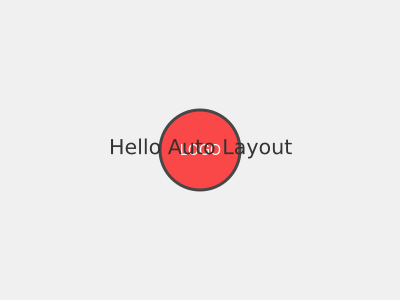
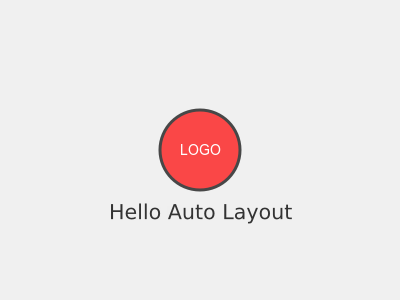
feat(布局引擎): 实现图片元素自动尺寸功能并添加测试用例
添加图片元素的自动尺寸支持，当未指定宽高约束时使用原始图片尺寸
更新文档说明自动尺寸功能，包括文本和图片元素的内在尺寸处理
添加三个测试用例验证不同尺寸约束场景下的图片渲染行为

Changed region(s): [[0.27, 0.66, 0.75, 0.75], [0.27, 0.45, 0.72, 0.54]]

diff --git a/auto_layout_render_test/src/solver.rs b/auto_layout_render_test/src/solver.rs
@@ -7,6 +7,7 @@ use cassowary::{
 use std::collections::HashMap;
 
 use rusttype::{Font, Scale, point};
+use image::DynamicImage;
 
 #[derive(Debug)]
 pub enum SolverError {
@@ -75,6 +76,7 @@ pub struct LayoutSolver {
     variables: HashMap<ElementId, ElementVariables>,
     canvas_vars: ElementVariables,
     fonts: HashMap<String, Font<'static>>,
+    images: HashMap<String, DynamicImage>,
 }
 
 impl Default for LayoutSolver {
@@ -90,6 +92,7 @@ impl LayoutSolver {
             variables: HashMap::new(),
             canvas_vars: ElementVariables::new(),
             fonts: HashMap::new(),
+            images: HashMap::new(),
         }
     }
 
@@ -106,6 +109,20 @@ impl LayoutSolver {
         })?;
 
         self.fonts.insert(font_family.to_string(), font);
+        Ok(())
+    }
+
+    /// 加载图片
+    pub fn load_image(&mut self, image_path: &str) -> Result<(), SolverError> {
+        if self.images.contains_key(image_path) {
+            return Ok(());
+        }
+
+        let image = image::open(image_path).map_err(|e| {
+            SolverError::ConstraintError(format!("Failed to load image {}: {}", image_path, e))
+        })?;
+
+        self.images.insert(image_path.to_string(), image);
         Ok(())
     }
 
@@ -153,6 +170,48 @@ impl LayoutSolver {
                         let text_height = properties.font_size * 1.2; // 添加一些行间距
                         self.solver
                             .add_constraint(vars.height | EQ(MEDIUM) | (text_height as f64))?;
+                    }
+                }
+            }
+        } else if let Element::Image {
+                source,
+                constraints,
+                ..
+            } = element {
+            // 检查是否已有显式的宽高约束
+            let has_width_constraint = constraints.iter().any(|c| {
+                matches!(
+                    c.constraint_type,
+                    ConstraintType::Width { value: Some(_), .. }
+                )
+            });
+            let has_height_constraint = constraints.iter().any(|c| {
+                matches!(
+                    c.constraint_type,
+                    ConstraintType::Height { value: Some(_), .. }
+                )
+            });
+
+            if !has_width_constraint || !has_height_constraint {
+                // 加载图片
+                self.load_image(source)?;
+
+                if let Some(image) = self.images.get(source) {
+                    let vars = self
+                        .variables
+                        .get(element.id())
+                        .ok_or_else(|| SolverError::ElementNotFound(element.id().clone()))?;
+
+                    let (width, height) = (image.width() as f64, image.height() as f64);
+
+                    if !has_width_constraint {
+                        self.solver
+                            .add_constraint(vars.width | EQ(MEDIUM) | width)?;
+                    }
+
+                    if !has_height_constraint {
+                        self.solver
+                            .add_constraint(vars.height | EQ(MEDIUM) | height)?;
                     }
                 }
             }

diff --git a/auto_layout_render_test/src/main.rs b/auto_layout_render_test/src/main.rs
@@ -18,13 +18,24 @@ fn main() -> Result<(), Box<dyn std::error::Error>> {
 
 /// 测试简单布局
 fn test_simple_layout() -> Result<(), Box<dyn std::error::Error>> {
-    println!("🧪 测试简单布局...");
-
     let mut engine = AutoLayoutEngine::new();
-    let image = engine.render_from_json_file("examples/simple.json")?;
 
+    println!("🧪 测试简单布局...");
+    let image = engine.render_from_json_file("examples/simple.json")?;
     AutoLayoutEngine::save_image(&image, "output/simple.png")?;
     println!("✅ 简单布局渲染完成 -> output/simple.png\n");
+
+    // 测试图片自动尺寸功能
+    println!("🧪 测试图片自动尺寸...");
+    let image_auto = engine.render_from_json_file("examples/auto_image_size.json")?;
+    AutoLayoutEngine::save_image(&image_auto, "output/auto_image_size.png")?;
+    println!("✅ 图片自动尺寸测试完成 -> output/auto_image_size.png\n");
+
+    // 测试图片尺寸变体
+    println!("🧪 测试图片尺寸变体（完全自动、固定宽度、固定高度）...");
+    let image_variants = engine.render_from_json_file("examples/image_size_variants.json")?;
+    AutoLayoutEngine::save_image(&image_variants, "output/image_size_variants.png")?;
+    println!("✅ 图片尺寸变体测试完成 -> output/image_size_variants.png\n");
 
     Ok(())
 }
